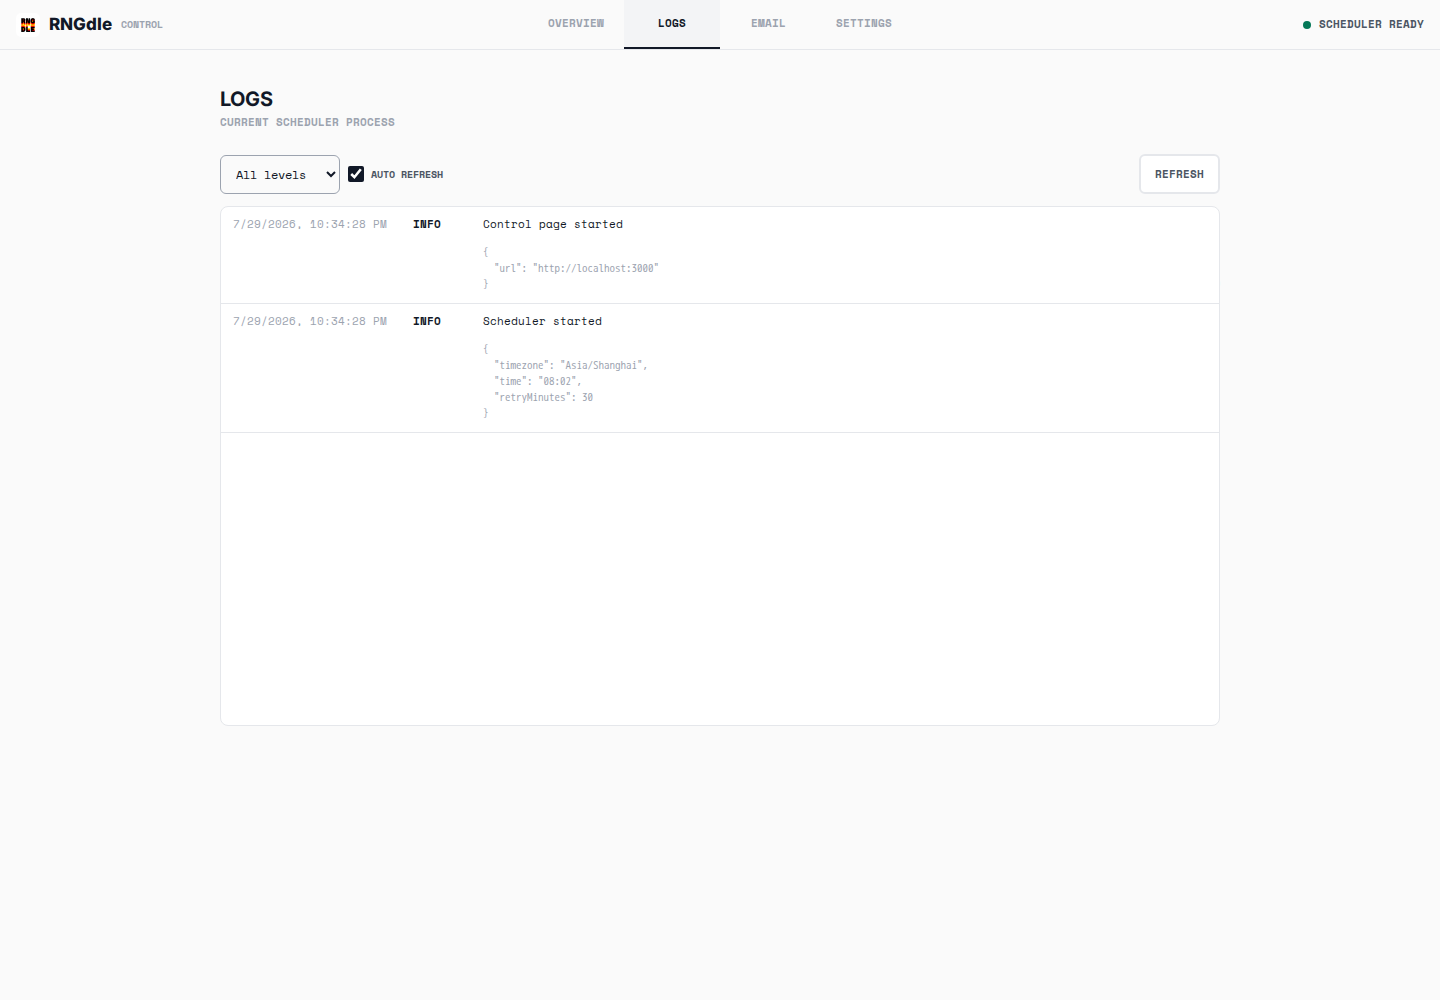
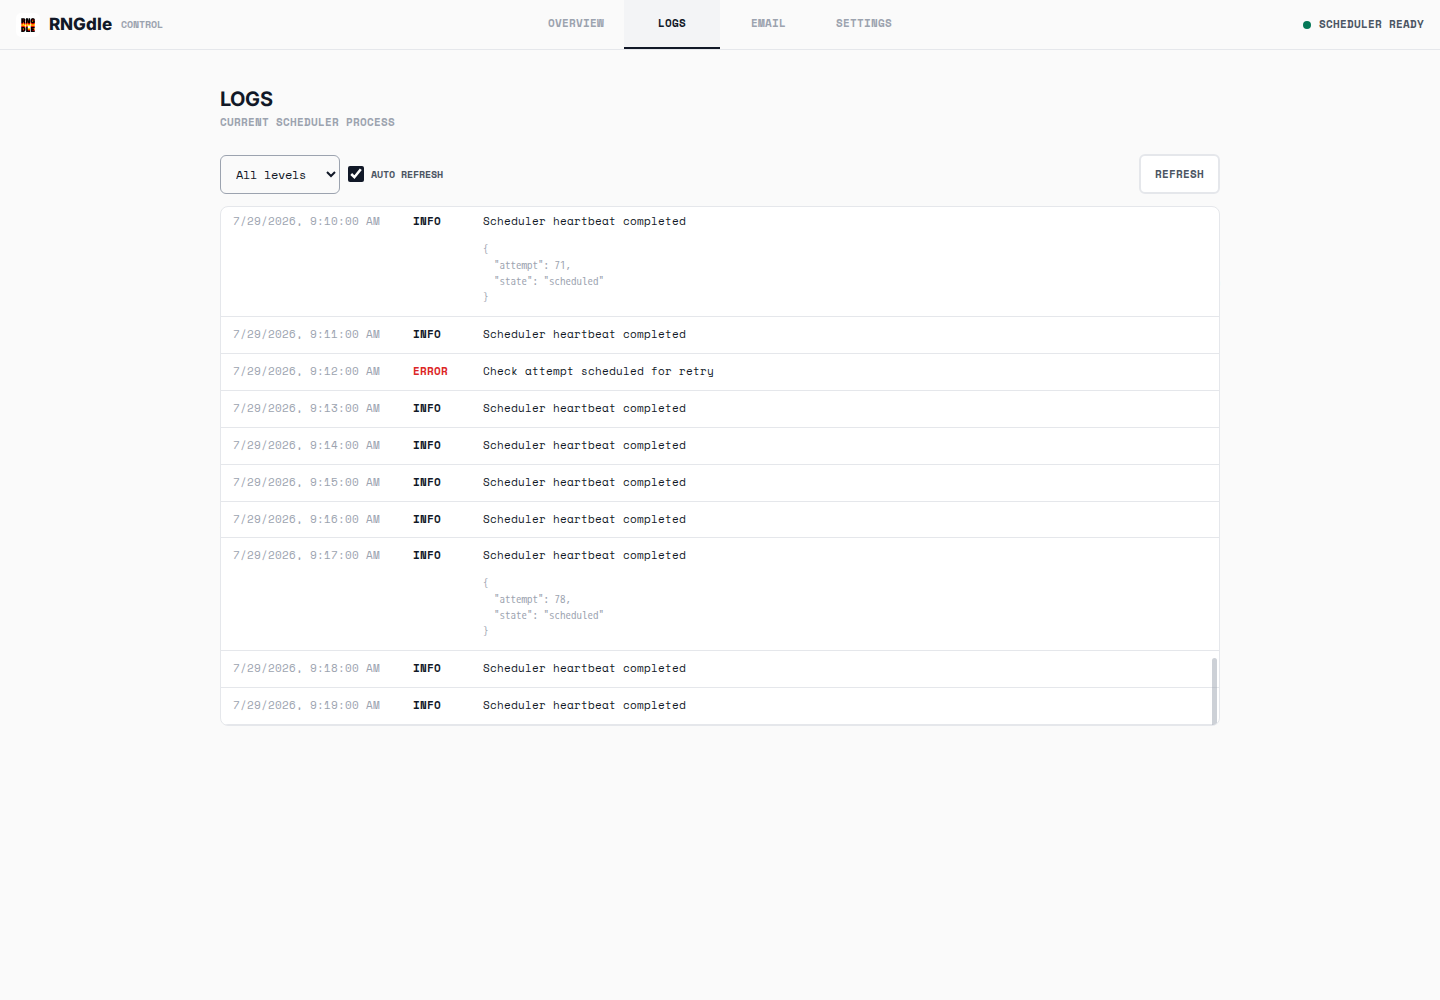
Style control scrolling with perfect-scrollbar

diff --git a/src/control-page.js b/src/control-page.js
@@ -20,6 +20,7 @@ export function renderControlPage(baseUrl) {
   <link rel="preload" href="/assets/fonts/inter-latin.woff2" as="font" type="font/woff2" crossorigin>
   <link rel="preload" href="/assets/fonts/space-mono-400-latin.woff2" as="font" type="font/woff2" crossorigin>
   <link rel="preload" href="/assets/fonts/space-mono-700-latin.woff2" as="font" type="font/woff2" crossorigin>
+  <link rel="stylesheet" href="/assets/vendor/perfect-scrollbar.css">
   <style>
     @font-face { font-family:Inter; font-style:normal; font-display:swap; font-weight:100 900; src:url("/assets/fonts/inter-latin.woff2") format("woff2"); }
     @font-face { font-family:"Space Mono"; font-style:normal; font-display:swap; font-weight:400; src:url("/assets/fonts/space-mono-400-latin.woff2") format("woff2"); }
@@ -27,10 +28,10 @@ export function renderControlPage(baseUrl) {
     :root { color-scheme:light; --font-sans:Inter,ui-sans-serif,system-ui,-apple-system,BlinkMacSystemFont,"Segoe UI",sans-serif; --font-mono:"Space Mono",ui-monospace,SFMono-Regular,Menlo,Monaco,Consolas,"Liberation Mono",monospace; --site:#fafafa; --surface:#fff; --raised:#f3f4f6; --prose:#111827; --prose-2:#4b5563; --prose-3:#9ca3af; --outline:#e5e7eb; --strong:#9ca3af; --success:#047857; --danger:#dc2626; --warning:#c2410c; }
     @media (prefers-color-scheme:dark) { :root { color-scheme:dark; --site:#19181d; --surface:#25242a; --raised:#302f36; --prose:#f0f0f0; --prose-2:#c4c4c4; --prose-3:#9a9a9a; --outline:#52515a; --strong:#85838f; --success:#6ee7b7; --danger:#fca5a5; --warning:#fdba74; } }
     * { box-sizing:border-box; }
-    html,body { min-height:100%; }
-    body { margin:0; background:var(--site); color:var(--prose); font:14px/1.5 var(--font-sans); letter-spacing:0; }
+    html,body { height:100%; min-height:100%; }
+    body { display:flex; flex-direction:column; margin:0; overflow:hidden; background:var(--site); color:var(--prose); font:14px/1.5 var(--font-sans); letter-spacing:0; }
     button,input,select { font:inherit; }
-    .topbar { min-height:50px; display:grid; grid-template-columns:minmax(0,1fr) auto minmax(0,1fr); align-items:stretch; gap:12px; padding:0 16px; border-bottom:1px solid var(--outline); background:var(--site); }
+    .topbar { flex:0 0 auto; min-height:50px; display:grid; grid-template-columns:minmax(0,1fr) auto minmax(0,1fr); align-items:stretch; gap:12px; padding:0 16px; border-bottom:1px solid var(--outline); background:var(--site); }
     .brand { grid-column:1; display:inline-flex; align-items:center; justify-self:start; gap:9px; color:var(--prose); font-size:17px; font-weight:800; text-decoration:none; }
     .brand img { width:24px; height:24px; border-radius:5px; }
     .brand-context,.mono,.label { font-family:var(--font-mono); }
@@ -43,6 +44,7 @@ export function renderControlPage(baseUrl) {
     .tab { min-width:96px; min-height:49px; padding:10px 14px; border:0; border-bottom:2px solid transparent; background:transparent; color:var(--prose-3); font:700 11px/1.2 var(--font-mono); text-transform:uppercase; cursor:pointer; }
     .tab:hover { color:var(--prose); background:var(--raised); }
     .tab.active { border-bottom-color:var(--prose); color:var(--prose); }
+    .main-scroll { position:relative; flex:1 1 auto; min-height:0; overflow:auto; }
     main { width:100%; max-width:1040px; margin:0 auto; padding:36px 20px 56px; }
     .view[hidden] { display:none; }
     .view-title { margin:0; font-size:20px; line-height:1.3; text-transform:uppercase; }
@@ -88,7 +90,7 @@ export function renderControlPage(baseUrl) {
     .toolbar .select { width:auto; min-width:120px; min-height:38px; }
     .check { display:inline-flex; align-items:center; gap:7px; color:var(--prose-2); font:700 10px/1.3 var(--font-mono); text-transform:uppercase; }
     .check input { width:16px; height:16px; margin:0; accent-color:var(--prose); }
-    .log-panel { height:520px; border:1px solid var(--outline); border-radius:8px; background:var(--surface); overflow:auto; }
+    .log-panel { contain:paint; height:520px; border:1px solid var(--outline); border-radius:8px; background:var(--surface); overflow:auto; }
     .log-empty { padding:40px 18px; color:var(--prose-3); font:12px/1.5 var(--font-mono); text-align:center; }
     .log-row { display:grid; grid-template-columns:168px 58px minmax(0,1fr); gap:12px; padding:10px 12px; border-bottom:1px solid var(--outline); font:11px/1.45 var(--font-mono); }
     .log-time { color:var(--prose-3); }
@@ -114,6 +116,14 @@ export function renderControlPage(baseUrl) {
     .form-field .field-label { margin:0 0 6px; }
     .settings-actions { display:flex; align-items:center; justify-content:flex-end; gap:14px; padding-top:20px; }
     .secret-state { color:var(--success); }
+    .main-scroll.ps,.log-panel.ps { overflow:hidden !important; }
+    .ps--active-y > .ps__rail-y { width:10px; opacity:.5; background:transparent; z-index:20; }
+    .ps--active-x > .ps__rail-x { height:10px; opacity:.5; background:transparent; z-index:20; }
+    .ps .ps__rail-y:hover,.ps .ps__rail-y:focus,.ps .ps__rail-y.ps--clicking,.ps .ps__rail-x:hover,.ps .ps__rail-x:focus,.ps .ps__rail-x.ps--clicking { opacity:1; background:var(--raised); }
+    .ps__thumb-y { right:2px; width:5px; border-radius:4px; background:var(--strong); }
+    .ps__thumb-x { bottom:2px; height:5px; border-radius:4px; background:var(--strong); }
+    .ps__rail-y:hover > .ps__thumb-y,.ps__rail-y:focus > .ps__thumb-y,.ps__rail-y.ps--clicking .ps__thumb-y { width:5px; background:var(--prose-2); }
+    .ps__rail-x:hover > .ps__thumb-x,.ps__rail-x:focus > .ps__thumb-x,.ps__rail-x.ps--clicking .ps__thumb-x { height:5px; background:var(--prose-2); }
     @media (max-width:760px) { .topbar { grid-template-columns:minmax(0,1fr) auto; gap:0; padding:0; } .brand { grid-column:1; grid-row:1; min-height:49px; padding:7px 12px; } .header-state { grid-column:2; grid-row:1; min-height:49px; padding:7px 12px; } .tabs { grid-column:1/-1; grid-row:2; width:100%; border-top:1px solid var(--outline); overflow-x:auto; } .tab { flex:1 0 78px; min-width:78px; min-height:43px; padding:10px 8px; } main { padding:28px 16px 44px; } .overview-grid { grid-template-columns:1fr; } .settings-group { grid-template-columns:1fr; gap:14px; } .log-row { grid-template-columns:1fr auto; gap:4px 10px; } .log-message,.log-fields { grid-column:1/-1; } .log-panel { height:460px; } .email-heading { align-items:stretch; flex-direction:column; } .email-actions { justify-content:flex-start; } .email-feedback { text-align:left; } .preview-frame { height:720px; } }
     @media (max-width:520px) { .brand-context { display:none; } .header-state { max-width:100%; } main { padding:24px 12px 36px; } .status-hero { padding-top:4px; } .status-frame { min-height:82px; } .status-copy { font-size:21px; } .stats { grid-template-columns:repeat(2,minmax(0,1fr)); } .stat:nth-child(3) { border-left:0; } .stat:nth-child(n+3) { border-top:1px solid var(--outline); } .form-grid { grid-template-columns:1fr; } .form-field.full { grid-column:auto; } .settings-actions { align-items:stretch; flex-direction:column; } .settings-actions .button { width:100%; } .toolbar { align-items:stretch; flex-direction:column; } .toolbar-group { justify-content:space-between; } .email-actions .segmented { width:100%; } .email-actions .segment { flex:1; } .email-actions .button { flex:1; } .preview-frame { height:660px; } }
   </style>
@@ -129,6 +139,7 @@ export function renderControlPage(baseUrl) {
     </nav>
     <div class="header-state"><span id="header-dot" class="dot"></span><span id="header-status">Connecting</span></div>
   </header>
+  <div id="main-scroll" class="main-scroll" tabindex="0">
   <main>
     <section id="view-overview" class="view" role="tabpanel">
       <div class="status-hero">
@@ -189,7 +200,7 @@ export function renderControlPage(baseUrl) {
         <div class="toolbar-group"><select id="log-level" class="select" aria-label="Log level"><option value="all">All levels</option><option value="info">Info</option><option value="error">Errors</option></select><label class="check"><input id="log-auto" type="checkbox" checked>Auto refresh</label></div>
         <button id="log-refresh" class="button quiet" type="button">Refresh</button>
       </div>
-      <div id="log-panel" class="log-panel" aria-live="polite"><div class="log-empty">Loading logs</div></div>
+      <div id="log-panel" class="log-panel" tabindex="0" aria-live="polite"><div class="log-empty">Loading logs</div></div>
     </section>
 
     <section id="view-email" class="view" role="tabpanel" hidden>
@@ -238,8 +249,15 @@ export function renderControlPage(baseUrl) {
       </form>
     </section>
   </main>
+  </div>
+  <script src="/assets/vendor/perfect-scrollbar.min.js"></script>
   <script>
     const byId = (id) => document.getElementById(id);
+    const createScrollbar = (element, options) => window.PerfectScrollbar
+      ? new window.PerfectScrollbar(element, options)
+      : { update() {} };
+    const mainScrollbar = createScrollbar(byId('main-scroll'), { suppressScrollX:true, wheelPropagation:false });
+    const logScrollbar = createScrollbar(byId('log-panel'), { suppressScrollX:true, wheelPropagation:false });
     let activeView = 'overview';
     let selectedEmailType = 'result';
     let mailRecipients = [];
@@ -262,6 +280,8 @@ export function renderControlPage(baseUrl) {
       document.querySelectorAll('.tab').forEach((tab) => { const selected = tab.dataset.view === name; tab.classList.toggle('active', selected); tab.setAttribute('aria-selected', String(selected)); });
       if (name === 'logs') loadLogs();
       if (name === 'settings' && !settingsLoaded) loadSettings();
+      byId('main-scroll').scrollTop=0;
+      requestAnimationFrame(()=>mainScrollbar.update());
     }
 
     async function refreshOverview() {
@@ -296,6 +316,7 @@ export function renderControlPage(baseUrl) {
           byId('error-section').hidden = !data.latest.lastError;
           text('last-error', data.latest.lastError);
         }
+        mainScrollbar.update();
       } catch (error) {
         text('status', 'Unavailable'); text('header-status', 'Offline');
         byId('header-dot').className = 'dot error';
@@ -307,7 +328,7 @@ export function renderControlPage(baseUrl) {
       try {
         const data = await request('/api/logs?limit=200&level=' + encodeURIComponent(byId('log-level').value));
         panel.replaceChildren();
-        if (!data.logs.length) { const empty=document.createElement('div'); empty.className='log-empty'; empty.textContent='No matching logs'; panel.append(empty); return; }
+        if (!data.logs.length) { const empty=document.createElement('div'); empty.className='log-empty'; empty.textContent='No matching logs'; panel.append(empty); logScrollbar.update(); return; }
         data.logs.forEach((entry) => {
           const row=document.createElement('div'); row.className='log-row';
           const time=document.createElement('time'); time.className='log-time'; time.textContent=new Date(entry.timestamp).toLocaleString();
@@ -317,7 +338,7 @@ export function renderControlPage(baseUrl) {
           if (entry.fields && Object.keys(entry.fields).length) { const fields=document.createElement('pre'); fields.className='log-fields'; fields.textContent=JSON.stringify(entry.fields,null,2); row.append(fields); }
           panel.append(row);
         });
-        panel.scrollTop=panel.scrollHeight;
+        logScrollbar.update(); panel.scrollTop=panel.scrollHeight; logScrollbar.update();
       } catch (error) { panel.textContent=error.message; }
     }
 
@@ -329,6 +350,7 @@ export function renderControlPage(baseUrl) {
         setInput('rngdle-email',data.rngdleEmail); setInput('smtp-username',data.smtpUsername); setInput('smtp-from',data.smtpFrom); setInput('subject-prefix',data.mailSubjectPrefix); setInput('mail-to',data.mailTo);
         setInput('smtp-host',data.smtpHost); setInput('smtp-port',data.smtpPort); byId('smtp-secure').checked=data.smtpSecure; byId('smtp-require-tls').checked=data.smtpRequireTls; byId('smtp-password').value=''; text('secret-state',data.hasSmtpPassword ? '(configured)' : '(missing)');
         settingsLoaded=true;
+        mainScrollbar.update();
       } catch (error) { text('settings-message',error.message); byId('settings-message').className='feedback error'; }
     }
 
@@ -338,6 +360,7 @@ export function renderControlPage(baseUrl) {
     document.querySelectorAll('[data-email-type]').forEach((button)=>button.addEventListener('click',()=>{ selectedEmailType=button.dataset.emailType; document.querySelectorAll('[data-email-type]').forEach((item)=>item.classList.toggle('active',item===button)); const url='/preview/email?type='+encodeURIComponent(selectedEmailType)+'&t='+Date.now(); byId('email-frame').src=url; byId('preview-open').href=url; byId('email-message').textContent=''; }));
     byId('email-send').addEventListener('click',async()=>{ const recipients=mailRecipients.length ? mailRecipients.join(', ') : 'the configured recipients'; const label=selectedEmailType==='result' ? 'result' : 'login required'; if(!window.confirm('Send the '+label+' email to '+recipients+'?')) return; const button=byId('email-send'); const message=byId('email-message'); button.disabled=true; button.textContent='Sending'; message.className='feedback email-feedback'; message.textContent=''; try { const data=await request('/api/email/send',{method:'POST',headers:{'Content-Type':'application/json'},body:JSON.stringify({type:selectedEmailType})}); message.textContent=data.message; } catch(error) { message.className='feedback email-feedback error'; message.textContent=error.message; } finally { button.disabled=false; button.textContent='Send email'; } });
     byId('settings-form').addEventListener('submit',async(event)=>{ event.preventDefault(); const message=byId('settings-message'); const save=byId('settings-save'); message.className='feedback'; message.textContent=''; save.disabled=true; const payload={timezone:byId('timezone').value,scheduleTime:byId('schedule-time').value,retryMinutes:Number(byId('retry-minutes').value),pollSeconds:Number(byId('poll-seconds').value),browserTimeoutMs:Number(byId('browser-timeout').value),controlPublicUrl:byId('control-url').value,rngdleEmail:byId('rngdle-email').value,smtpUsername:byId('smtp-username').value,smtpFrom:byId('smtp-from').value,mailSubjectPrefix:byId('subject-prefix').value,mailTo:byId('mail-to').value,smtpHost:byId('smtp-host').value,smtpPort:Number(byId('smtp-port').value),smtpSecure:byId('smtp-secure').checked,smtpRequireTls:byId('smtp-require-tls').checked,smtpAppPassword:byId('smtp-password').value}; try { const data=await request('/api/settings',{method:'PUT',headers:{'Content-Type':'application/json'},body:JSON.stringify(payload)}); message.textContent=data.message; settingsLoaded=false; await loadSettings(); await refreshOverview(); } catch(error) { message.className='feedback error'; message.textContent=error.message; } finally { save.disabled=false; } });
+    window.addEventListener('resize',()=>{ mainScrollbar.update(); logScrollbar.update(); });
     setInterval(()=>{ refreshOverview(); if(activeView==='logs'&&byId('log-auto').checked) loadLogs(); },3000);
     refreshOverview();
   </script>

diff --git a/src/control.js b/src/control.js
@@ -13,18 +13,41 @@ import { readState } from "./state.js";
 
 const MAX_BODY_BYTES = 32 * 1024;
 const EMAIL_TYPES = new Set(["result", "authentication"]);
-const FONT_ASSETS = new Map([
+const STATIC_ASSETS = new Map([
   [
     "/assets/fonts/inter-latin.woff2",
-    new URL("../node_modules/@fontsource-variable/inter/files/inter-latin-wght-normal.woff2", import.meta.url),
+    {
+      url: new URL("../node_modules/@fontsource-variable/inter/files/inter-latin-wght-normal.woff2", import.meta.url),
+      contentType: "font/woff2",
+    },
   ],
   [
     "/assets/fonts/space-mono-400-latin.woff2",
-    new URL("../node_modules/@fontsource/space-mono/files/space-mono-latin-400-normal.woff2", import.meta.url),
+    {
+      url: new URL("../node_modules/@fontsource/space-mono/files/space-mono-latin-400-normal.woff2", import.meta.url),
+      contentType: "font/woff2",
+    },
   ],
   [
     "/assets/fonts/space-mono-700-latin.woff2",
-    new URL("../node_modules/@fontsource/space-mono/files/space-mono-latin-700-normal.woff2", import.meta.url),
+    {
+      url: new URL("../node_modules/@fontsource/space-mono/files/space-mono-latin-700-normal.woff2", import.meta.url),
+      contentType: "font/woff2",
+    },
+  ],
+  [
+    "/assets/vendor/perfect-scrollbar.css",
+    {
+      url: new URL("../node_modules/perfect-scrollbar/css/perfect-scrollbar.css", import.meta.url),
+      contentType: "text/css; charset=utf-8",
+    },
+  ],
+  [
+    "/assets/vendor/perfect-scrollbar.min.js",
+    {
+      url: new URL("../node_modules/perfect-scrollbar/dist/perfect-scrollbar.min.js", import.meta.url),
+      contentType: "text/javascript; charset=utf-8",
+    },
   ],
 ]);
 
@@ -66,10 +89,10 @@ function sendHtml(response, status, html, { preview = false } = {}) {
   response.end(html);
 }
 
-async function sendFont(request, response, assetUrl) {
-  const contents = await readFile(assetUrl);
+async function sendStaticAsset(request, response, asset) {
+  const contents = await readFile(asset.url);
   response.writeHead(200, {
-    "Content-Type": "font/woff2",
+    "Content-Type": asset.contentType,
     "Content-Length": contents.length,
     "Cache-Control": "public, max-age=31536000, immutable",
     "X-Content-Type-Options": "nosniff",
@@ -158,8 +181,8 @@ export async function createControlServer(
   const server = http.createServer(async (request, response) => {
     try {
       const url = new URL(request.url, "http://localhost");
-      if ((request.method === "GET" || request.method === "HEAD") && FONT_ASSETS.has(url.pathname)) {
-        await sendFont(request, response, FONT_ASSETS.get(url.pathname));
+      if ((request.method === "GET" || request.method === "HEAD") && STATIC_ASSETS.has(url.pathname)) {
+        await sendStaticAsset(request, response, STATIC_ASSETS.get(url.pathname));
       } else if ((request.method === "GET" || request.method === "HEAD") && url.pathname === "/") {
         response.writeHead(200, { "Content-Type": "text/html; charset=utf-8", "Cache-Control": "no-store" });
         response.end(request.method === "HEAD" ? undefined : page);

diff --git a/test/control.test.js b/test/control.test.js
@@ -70,12 +70,24 @@ test("control APIs expose operations without exposing secrets", async (context) 
   assert.match(page, /@font-face/);
   assert.match(page, /\/assets\/fonts\/inter-latin\.woff2/);
   assert.match(page, /id="email-send"/);
+  assert.match(page, /perfect-scrollbar\.min\.js/);
+  assert.match(page, /new window\.PerfectScrollbar\(element, options\)/);
+  assert.match(page, /: \{ update\(\) \{\} \}/);
+  assert.match(page, /\.log-panel \{ contain:paint;/);
+  assert.match(page, /\.main-scroll\.ps,\.log-panel\.ps \{ overflow:hidden !important; \}/);
   assert.match(page, /<header class="topbar">[\s\S]*<nav class="tabs"[\s\S]*<\/header>/);
   assert.doesNotMatch(page, /tabs-wrap/);
   const font = await fetch(`${baseUrl}/assets/fonts/space-mono-700-latin.woff2`);
   assert.equal(font.status, 200);
   assert.equal(font.headers.get("content-type"), "font/woff2");
   assert.ok((await font.arrayBuffer()).byteLength > 1_000);
+  const scrollbarScript = await fetch(`${baseUrl}/assets/vendor/perfect-scrollbar.min.js`);
+  assert.equal(scrollbarScript.status, 200);
+  assert.match(scrollbarScript.headers.get("content-type"), /text\/javascript/);
+  assert.ok((await scrollbarScript.arrayBuffer()).byteLength > 10_000);
+  const scrollbarStyles = await fetch(`${baseUrl}/assets/vendor/perfect-scrollbar.css`);
+  assert.equal(scrollbarStyles.status, 200);
+  assert.match(scrollbarStyles.headers.get("content-type"), /text\/css/);
 
   const overview = await (await fetch(`${baseUrl}/api/overview`)).json();
   assert.equal(overview.result.number, 123456);

diff --git a/README.md b/README.md
@@ -162,6 +162,8 @@ Control 的 Settings 页面会将修改写入 `/app/data/settings.json`，其优
 
 Control 将品牌、四视图导航和 scheduler 状态集中在页面 header 中。移动端导航保留在 header 第二行，四个入口等宽排列。
 
+页面主区域与 Logs 面板使用本地打包的 `perfect-scrollbar`，内容刷新、视图切换和窗口缩放后会自动同步滚动范围；脚本不可用时回退到原生滚动。
+
 四个视图分别提供：
 
 | 视图 | 功能 |
